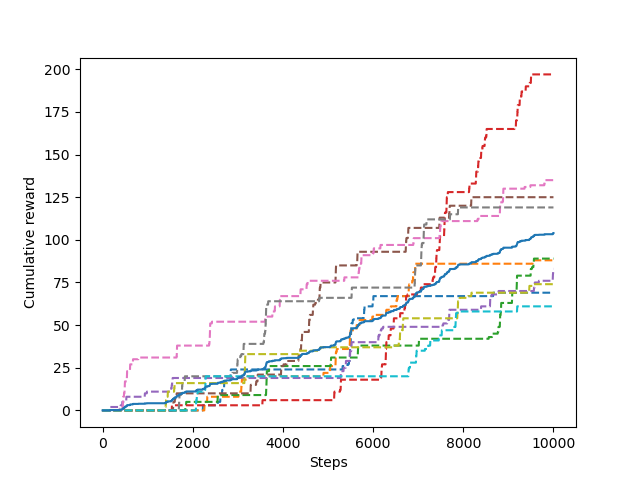
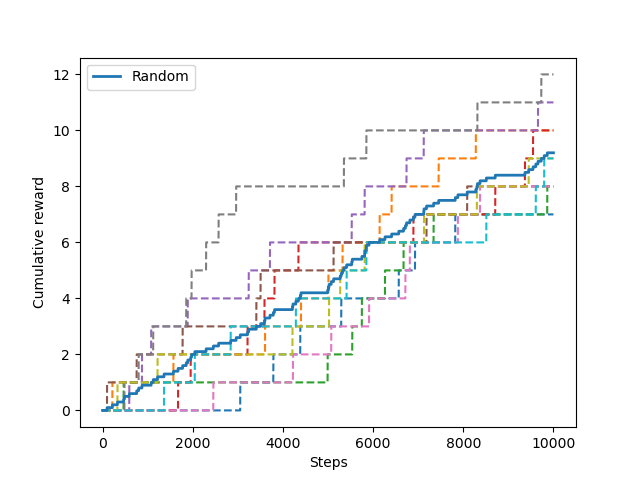
policies updated and graph made

diff --git a/Assignment1/environment.py b/Assignment1/environment.py
@@ -1,80 +1,29 @@
 from random import seed
 from random import randint, random
 
-# seed random number generator
-# import q1, q3
 
 seed(1)
 
-
-class Action:
-    def __init__(self, action):
-        self.action = action
-        self.action_list = {"up": (0, 1), "down": (0, -1), "left": (-1, 0), "right": (1, 0)}
-
-    def get_left_perpendicular(self):
-        if self.action == "up":
-            return self.action_list["left"]
-        elif self.action == "left":
-            return self.action_list["down"]
-        elif self.action == "down":
-            return self.action_list["right"]
-        else:
-            return self.action_list["up"]
-
-    def get_right_perpendicular(self):
-        if self.action == "up":
-            return self.action_list["right"]
-        elif self.action == "left":
-            return self.action_list["up"]
-        elif self.action == "down":
-            return self.action_list["left"]
-        else:
-            return self.action_list["down"]
-
-    def get_opposite(self):
-        if self.action == "up":
-            return self.action_list["down"]
-        elif self.action == "left":
-            return self.action_list["right"]
-        elif self.action == "down":
-            return self.action_list["up"]
-        else:
-            return self.action_list["left"]
-
-
-class State:
-    def __init__(self, x, y):
-        self.x = x
-        self.y = y
-
-    def move(self, action):
-        self.x += action[0]
-        self.y += action[1]
+from Assignment1 import State
 
 
 class Environment:
     def __init__(self, source, target):
-        self.source = State(source[0], source[1])
-        self.target = State(target[0], target[1])
+        self.source = source
+        self.target = target
         self.blocks = [(0, 5), (2, 5), (3, 5), (4, 5), (5, 5), (5, 0), (5, 2), (5, 3), (5, 4), (5, 6), (5, 7), (5, 9),
                        (5, 10), (6, 4), (7, 4), (8, 4), (10, 4)]
         self.lower_limit = self.left_limit = 0
         self.upper_limit = self.right_limit = 10
         self.prob = 0.8
 
-    def out_of_bounds(self, current_state):
-        return current_state.x < self.left_limit or current_state.x > self.right_limit \
-               or current_state.y < self.lower_limit or current_state.y > self.upper_limit \
-               or (current_state.x, current_state.y) in self.blocks
-
     def is_target(self, current_state):
         print("checking target")
         print(current_state.x, " ", current_state.y)
         print("target state")
-        print(self.target.x, " ", self.target.y)
-        if current_state.x == self.target.x and current_state.y == self.target.y:
+        print(self.target[0], " ", self.target[1])
+        if current_state.x == self.target[0] and current_state.y == self.target[1]:
+            print("target reached")
             return True
         else:
             return False
-

diff --git a/Assignment1/Simulation.py b/Assignment1/Simulation.py
@@ -1,0 +1,59 @@
+from Assignment1 import Action, State
+from random import random
+
+import matplotlib.pyplot as plt
+
+
+class Simulation:
+    def __init__(self, grid, policy):
+        self.grid = grid
+        self.policy = policy
+
+    def plot_cumulative_rewards(self, trial_rewards):
+        average_bar = []
+        for i in range(len(trial_rewards[0])):
+            sum_rewards = 0
+            for j in range(10):
+                sum_rewards += trial_rewards[j][i]
+            average_bar.append(sum_rewards / len(trial_rewards))
+
+        for i in trial_rewards:
+            plt.plot(i, linestyle='dashed')
+
+        plt.plot(average_bar, linewidth=2, label=self.policy.name)
+        plt.ylabel('Cumulative reward')
+        plt.xlabel('Steps')
+        plt.legend()
+        plt.show()
+
+    def transition(self, current_state, action):
+        print("simulating")
+        decision_prob = random()
+        print("decision probability : ", decision_prob)
+        if decision_prob < self.grid.prob:
+            current_state.move(action.action_list[action.action])
+        elif self.grid.prob < decision_prob < self.grid.prob + (1 - self.grid.prob) / 2:
+            current_state.move(action.get_left_perpendicular())
+        else:
+            current_state.move(action.get_right_perpendicular())
+        reward = 0
+        if self.grid.is_target(current_state):
+            current_state.__setstate__(self.grid.source[0], self.grid.source[1])
+            reward = 1
+        return current_state, reward
+
+    def simulate(self, num_trials=10, num_steps=10000):
+        print("Q3 : Random Policy")
+        trial_rewards = []
+        for trials in range(num_trials):
+            curr_state = State.State(self.grid.source[0], self.grid.source[1], self.grid)
+            steps_reward = []
+            cum_sum = 0
+            for steps in range(num_steps):
+                action = self.policy.get_action(curr_state)
+                action_object = Action.Action(action)
+                curr_state, reward = self.transition(curr_state, action_object)
+                cum_sum += reward
+                steps_reward.append(cum_sum)
+            trial_rewards.append(steps_reward)
+        self.plot_cumulative_rewards(trial_rewards)

diff --git a/Assignment1/betterPolicy.py b/Assignment1/betterPolicy.py
@@ -1,0 +1,47 @@
+from random import random, choice
+
+
+class BetterPolicy:
+    def __init__(self):
+        self.name = "Better"
+        return
+
+    def get_action(self, curr_state):
+        action_prob = random()
+        if action_prob < 0.8:
+            return choice(["up", "left", "down", "right"])
+        if curr_state.x < 5:
+            if curr_state.y >= 9:
+                return "down"
+            elif 6 <= curr_state.y < 8:
+                return "up"
+            elif curr_state.y == 8:
+                return "right"
+            elif curr_state.y < 4:
+                return "up"
+            elif curr_state.y == 4:
+                if curr_state.x == 0:
+                    return "right"
+                elif curr_state.x == 1:
+                    return "up"
+                else:
+                    return "left"
+            else:
+                return "up"
+        elif curr_state.x == 5:
+            return "right"
+        else:
+            if curr_state.y <= 2:
+                return "up"
+            elif curr_state.y == 3:
+                if curr_state.x < 8:
+                    return "right"
+                elif curr_state.x > 8:
+                    return "left"
+                else:
+                    return "up"
+            elif curr_state.y == 10:
+                return "right"
+            else:
+                return "up"
+        return "up"

diff --git a/Assignment1/main.py b/Assignment1/main.py
@@ -3,14 +3,22 @@
 # Press Shift+F10 to execute it or replace it with your code.
 # Press Double Shift to search everywhere for classes, files, tool windows, actions, and settings.
 # generate random integer values
-from Assignment1 import environment, q1, plot_rewards, randomPolicy, worsePolicy
+from Assignment1 import environment, Simulation, randomPolicy, worsePolicy, betterPolicy, Simulation
+
 # Press the green button in the gutter to run the script.
 if __name__ == '__main__':
     print("Create ")
-    # q1.play_simulation()
-    worse_policy = worsePolicy.GoWest()
+    source = (0,0)
+    target = (10,10)
+    my_grid = environment.Environment(source, target)
+    worse_policy = worsePolicy.WorsePolicy()
     random_policy = randomPolicy.RandomPolicy()
-    plot_rewards.cumulative_reward(random_policy)
-    plot_rewards.cumulative_reward(worse_policy)
+    better_policy = betterPolicy.BetterPolicy()
+    simulation_object_random = Simulation.Simulation(my_grid, random_policy)
+    simulation_object_random.simulate()
+    # simulation_object_worse = Simulation.Simulation(my_grid, worse_policy)
+    # simulation_object_worse.simulate()
+    # simulation_object_better = Simulation.Simulation(my_grid, better_policy)
+    # simulation_object_better.simulate()
 
 # See PyCharm help at https://www.jetbrains.com/help/pycharm/

diff --git a/Assignment1/Action.py b/Assignment1/Action.py
@@ -1,0 +1,35 @@
+
+class Action:
+    def __init__(self, action):
+        self.action = action
+        self.action_list = {"up": (0, 1), "down": (0, -1), "left": (-1, 0), "right": (1, 0)}
+
+    def get_left_perpendicular(self):
+        if self.action == "up":
+            return self.action_list["left"]
+        elif self.action == "left":
+            return self.action_list["down"]
+        elif self.action == "down":
+            return self.action_list["right"]
+        else:
+            return self.action_list["up"]
+
+    def get_right_perpendicular(self):
+        if self.action == "up":
+            return self.action_list["right"]
+        elif self.action == "left":
+            return self.action_list["up"]
+        elif self.action == "down":
+            return self.action_list["left"]
+        else:
+            return self.action_list["down"]
+
+    def get_opposite(self):
+        if self.action == "up":
+            return self.action_list["down"]
+        elif self.action == "left":
+            return self.action_list["right"]
+        elif self.action == "down":
+            return self.action_list["up"]
+        else:
+            return self.action_list["left"]

diff --git a/Assignment1/State.py b/Assignment1/State.py
@@ -1,0 +1,23 @@
+
+class State:
+    def __init__(self, x, y, grid):
+        self.x = x
+        self.y = y
+        self.grid = grid
+
+    def out_of_bounds(self, next_x, next_y):
+        return next_x < self.grid.left_limit or next_x > self.grid.right_limit \
+               or next_y < self.grid.lower_limit or next_y > self.grid.upper_limit \
+               or (next_x, next_y) in self.grid.blocks
+
+    def move(self, action):
+        next_x = self.x + action[0]
+        next_y = self.y + action[1]
+
+        if not self.out_of_bounds(next_x, next_y):
+            self.x += action[0]
+            self.y += action[1]
+
+    def __setstate__(self, x, y):
+        self.x = x
+        self.y = y

diff --git a/Assignment1/randomPolicy.py b/Assignment1/randomPolicy.py
@@ -2,8 +2,9 @@ import random
 
 class RandomPolicy:
     def __init__(self):
+        self.name = "Random"
         return
 
-    def get_action(self):
+    def get_action(self, curr_state):
         return random.choice(["up", "left", "down", "right"])
 

diff --git a/Assignment1/worsePolicy.py b/Assignment1/worsePolicy.py
@@ -1,9 +1,7 @@
-from random import randint, random
-
-
-class GoWest:
+class WorsePolicy:
     def __init__(self):
+        self.name = "Worse"
         return
 
-    def get_action(self):
+    def get_action(self, curr_state):
         return "left"
